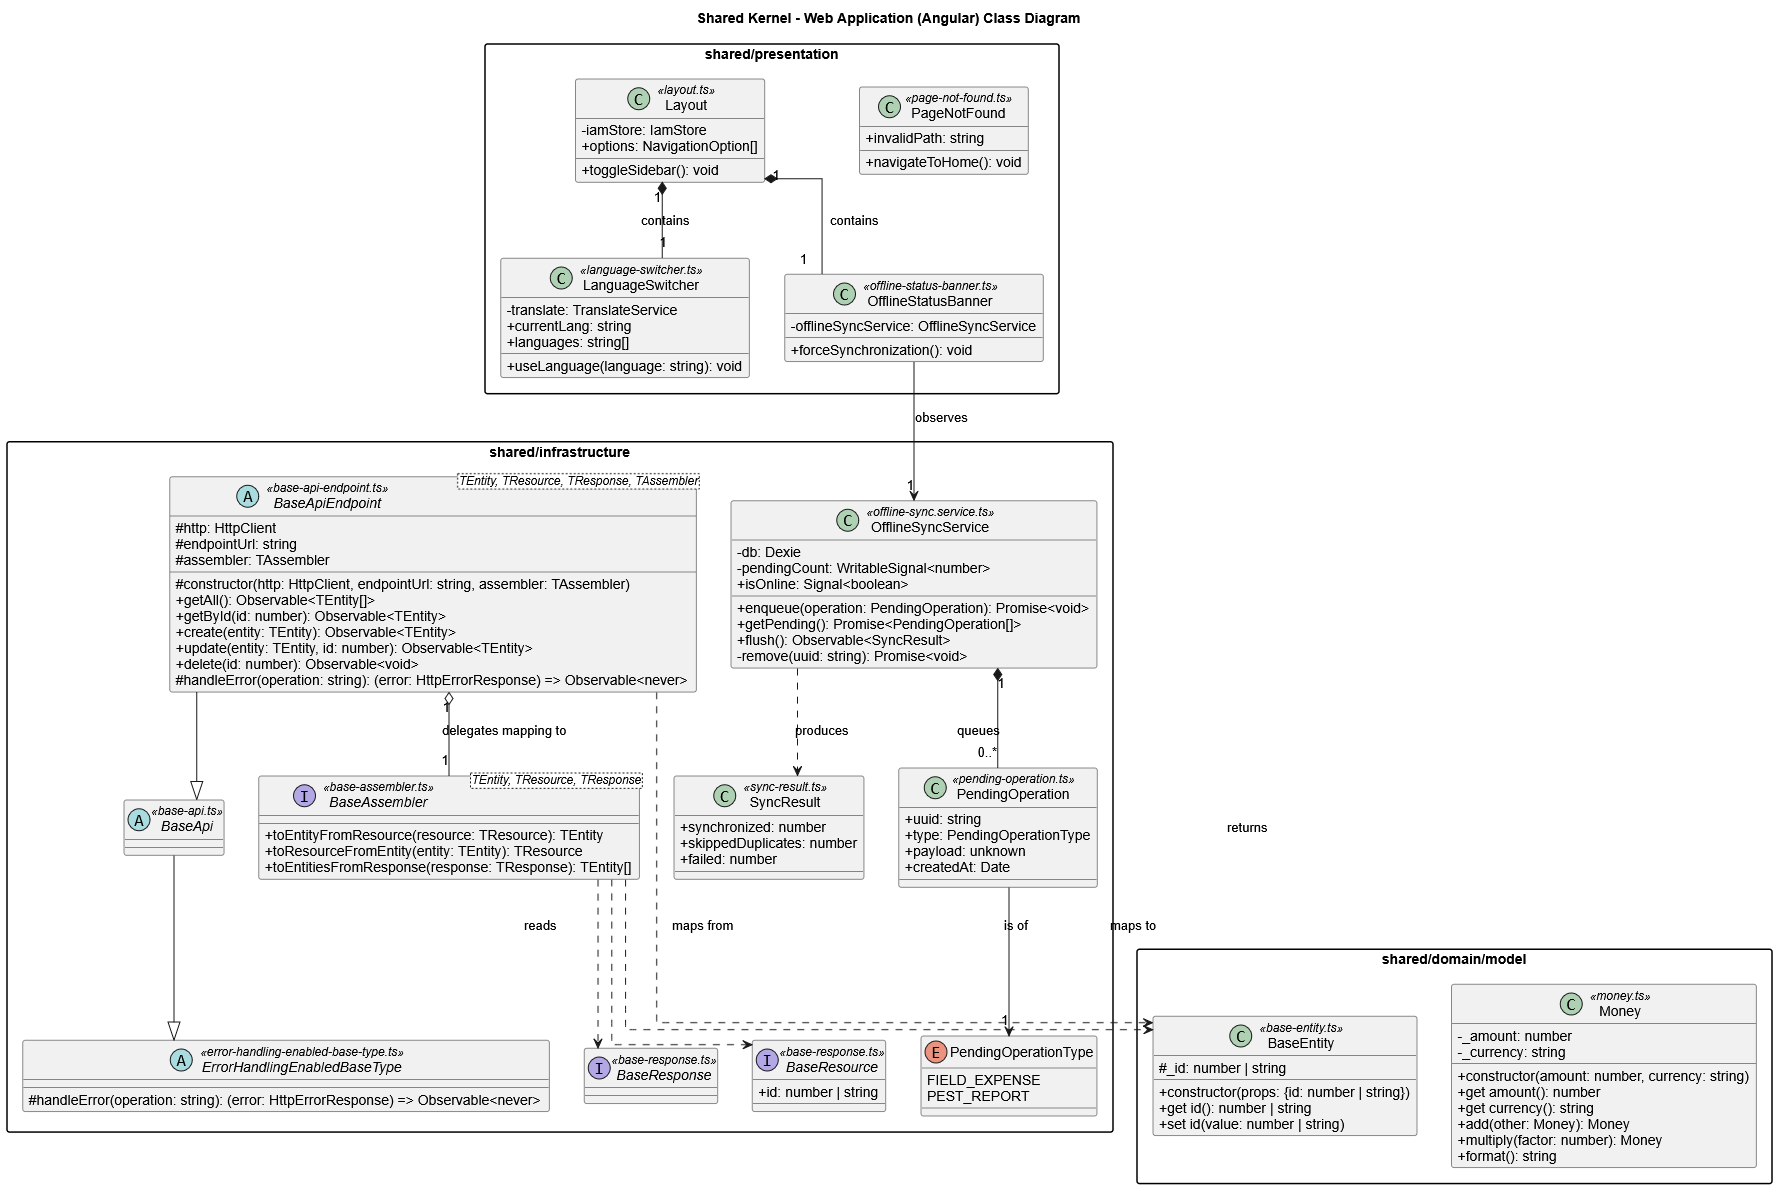
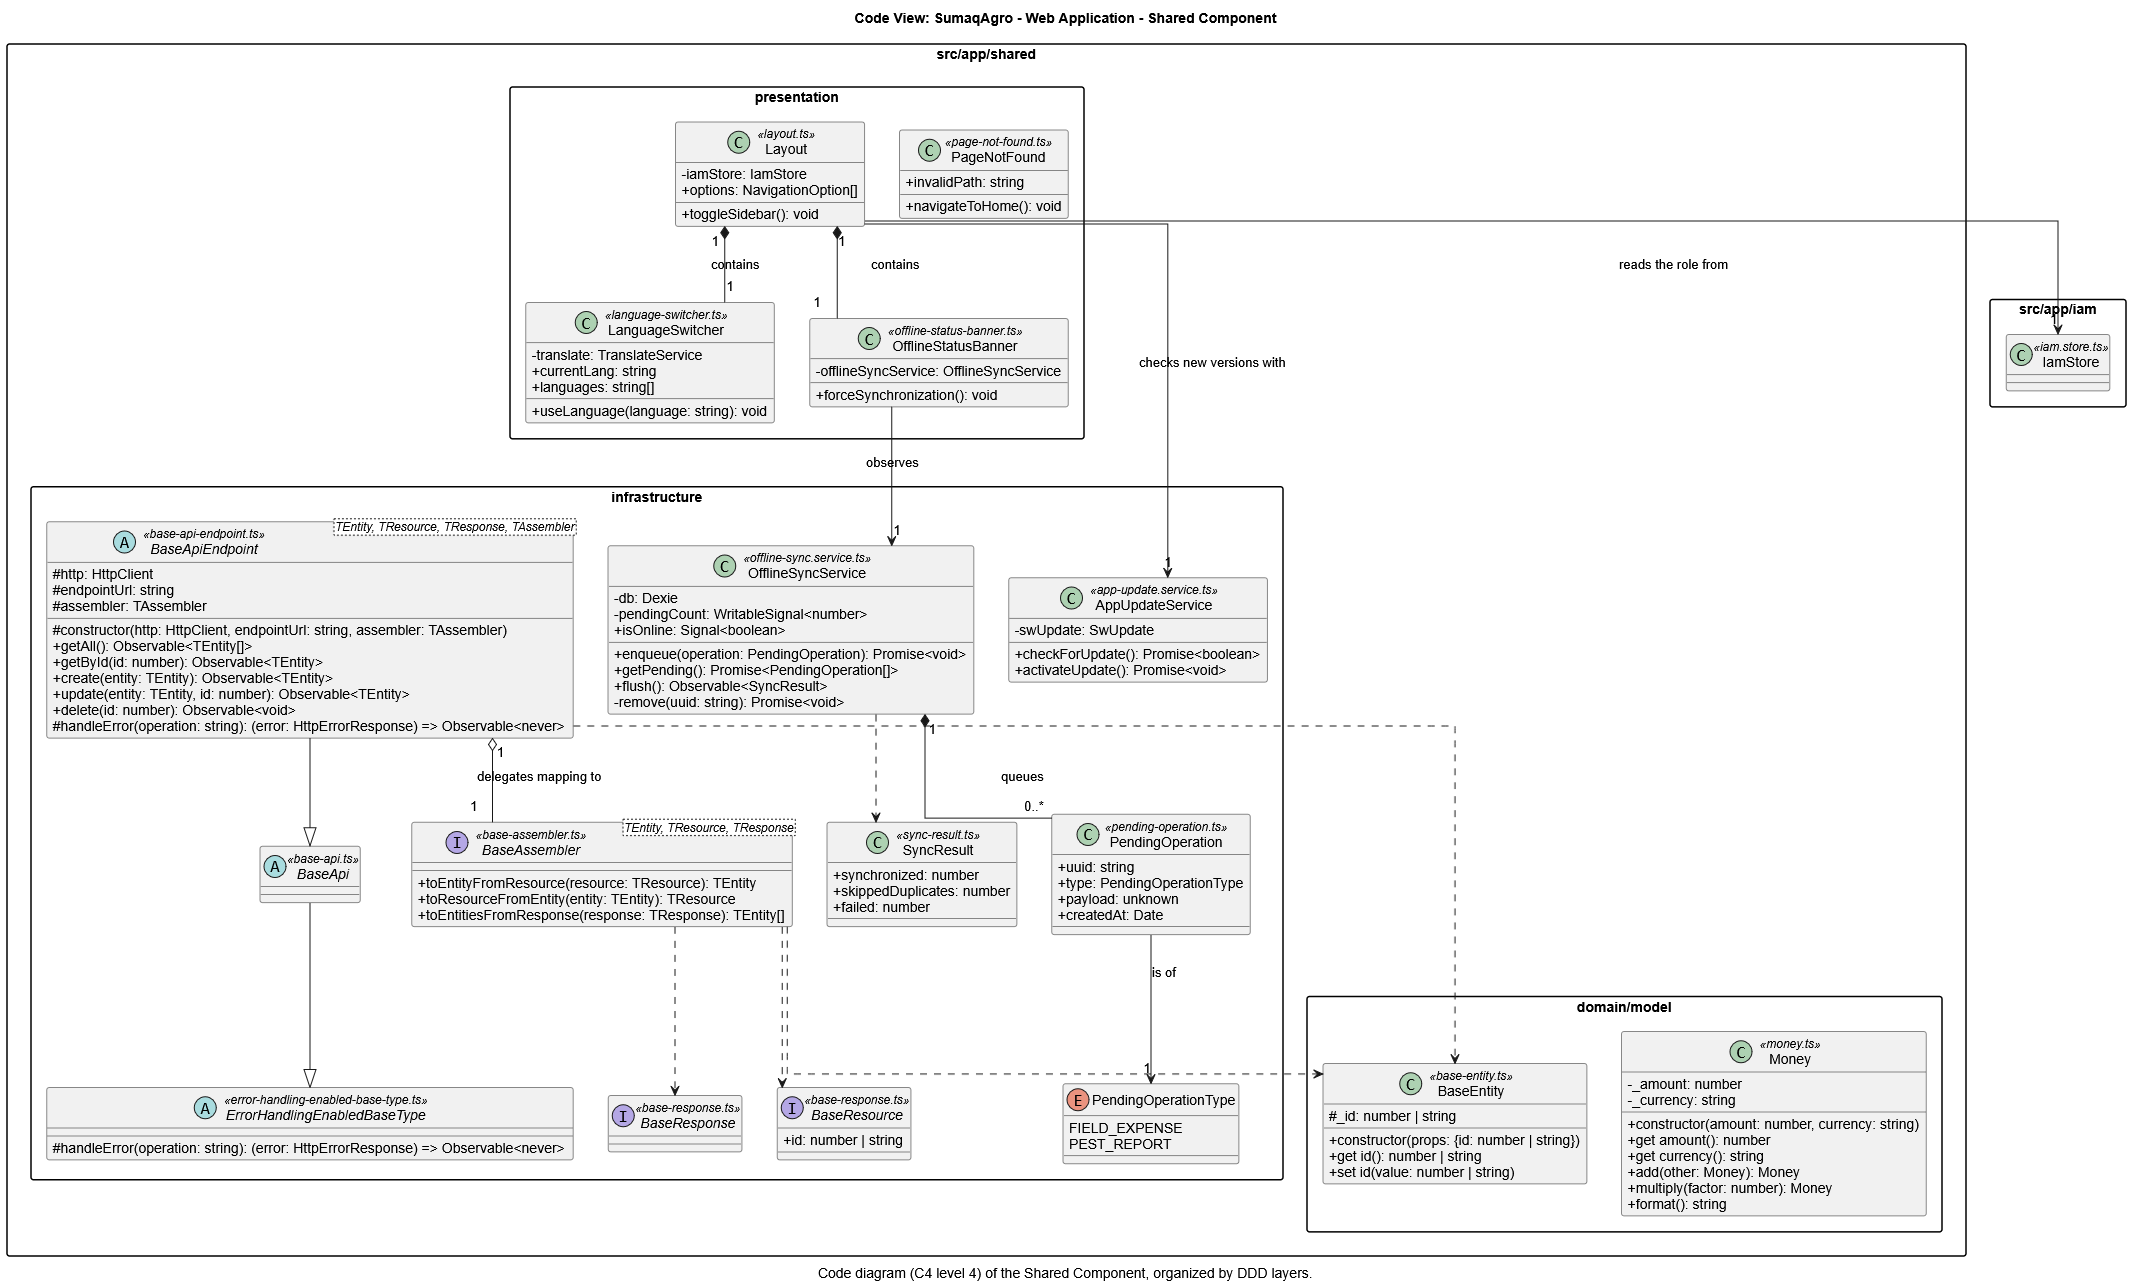
docs(cap4): update class diagrams as c4 code level and align descriptions

diff --git a/report/40-chapter-4-design.md b/report/40-chapter-4-design.md
@@ -1695,13 +1695,15 @@ El backend, desarrollado en **Java 21 con Spring Boot 3.x**, también se organiz
 
 En esta sección se presenta el diseño orientado a objetos de SumaqAgro a nivel de clases. Los diagramas toman como base los 6 bounded contexts y el Shared Kernel definidos en el Design-Level EventStorming, y los llevan al código de los dos productos de software que los implementan: la **Web Application** en Angular y la **RESTful API** en Spring Boot.
 
+Estos diagramas corresponden al nivel de código (nivel 4) del modelo C4. Cada uno amplía un componente del diagrama de componentes de la sección 4.6.4: hay un diagrama por bounded context, más el de Shared, para cada contenedor.
+
 Las principales características que se consideran en los diagramas son:
 
-* **Organización por bounded context:** cada contexto tiene su propio diagrama y sus clases se agrupan en paquetes que siguen la estructura de carpetas del proyecto.
+* **Organización por bounded context:** cada contexto tiene su propio diagrama y sus clases se agrupan en paquetes que siguen la estructura de carpetas del proyecto. El componente aparece dentro de un marco con su paquete (por ejemplo, `com.sumaqagro.platform.fieldmanagement` en la API y `src/app/field-management` en la Web Application). Las clases que vienen de otro componente, como Shared o IAM, se dibujan fuera de ese marco.
 * **Capas de DDD:** en la RESTful API se separan las capas `domain` (agregados, entidades, value objects, commands y events), `application` (servicios de commands y queries, event handlers y servicios de ACL), `infrastructure` (repositorios JPA y assemblers hacia sistemas externos) e `interfaces` (controllers REST, assemblers de recursos y facades de ACL). En la Web Application se separan `domain/model`, `application` (store), `infrastructure` (API, endpoints, assemblers, requests y responses) y `presentation` (vistas y componentes).
 * **Principios SOLID:** cada servicio se define como interfaz y se implementa en una clase aparte, los controllers dependen de interfaces y no de implementaciones, y cada clase tiene una sola responsabilidad (por ejemplo, un assembler solo transforma datos).
 * **Comunicación entre contextos:** los contextos no se llaman directamente. Lo hacen mediante domain events, que activan las políticas P1 a P11 del EventStorming, o mediante facades de ACL.
-* **Notación:** los miembros indican su alcance (`-` privado, `+` público y `#` protegido), su tipo de dato y el tipo de retorno de los métodos. Las relaciones muestran su nombre, su dirección y su multiplicidad.
+* **Notación:** los miembros indican su alcance (`-` privado, `+` público y `#` protegido), su tipo de dato y el tipo de retorno de los métodos. Las asociaciones entre clases del dominio muestran su nombre, su dirección y su multiplicidad. Las dependencias (`..>`), herencias e implementaciones muestran su dirección.
 
 **Herramienta utilizada:** PlantUML (*Diagrams as Code*).
 
@@ -1709,7 +1711,7 @@ Las principales características que se consideran en los diagramas son:
 
 ### 4.7.1. Class Diagrams
 
-A continuación se presentan los diagramas de clases de cada bounded context, primero para la Web Application y luego para la RESTful API. En la Web Application los nombres de archivo siguen la convención *kebab-case* de Angular (por ejemplo, `field-plot.entity.ts` o `field-management.store.ts`), y se muestran junto a cada clase.
+A continuación se presentan los diagramas de clases de cada bounded context, primero para la Web Application y luego para la RESTful API. En la Web Application los nombres de archivo siguen la convención *kebab-case* de Angular (por ejemplo, `field-plot.entity.ts` o `field-management.store.ts`), y se muestran junto a cada clase. Cada contexto de la Web Application, salvo IAM, tiene su archivo de rutas (`*.routes.ts`), que usa `IamGuard` para revisar la sesión y el rol antes de abrir sus vistas.
 
 ---
 
@@ -1728,12 +1730,14 @@ El Shared Kernel reúne las clases comunes que reutilizan todos los bounded cont
   * `BaseApiEndpoint<TEntity, TResource, TResponse, TAssembler>`: clase abstracta con las operaciones HTTP comunes (`getAll`, `getById`, `create`, `update` y `delete`). Hereda de `BaseApi`, que a su vez hereda de `ErrorHandlingEnabledBaseType` para manejar los errores HTTP en un solo lugar.
   * `BaseAssembler`, `BaseResource` y `BaseResponse`: interfaces que definen cómo se convierten los recursos de la API en entidades y viceversa.
   * `OfflineSyncService`: guarda en IndexedDB (Dexie) las operaciones hechas sin conexión, como gastos y reportes de plagas, y las envía al backend cuando vuelve la señal. Cada operación pendiente es un `PendingOperation`.
+  * `AppUpdateService`: usa el Service Worker (`SwUpdate`) para revisar si hay una versión nueva de la aplicación y activarla.
 * **`shared/presentation`:** `Layout` (estructura general con el menú), `LanguageSwitcher` (cambio entre español e inglés), `OfflineStatusBanner` (aviso de modo sin conexión) y `PageNotFound`.
 
 **Relaciones principales:**
 * `BaseApiEndpoint` "1" o-- "1" `BaseAssembler`: cada endpoint delega la transformación de datos en su assembler.
 * `OfflineSyncService` "1" *-- "0..*" `PendingOperation`: el servicio es dueño de la cola de operaciones pendientes.
 * `Layout` "1" *-- "1" `LanguageSwitcher` y `OfflineStatusBanner`: el layout contiene ambos componentes.
+* `Layout` --> "1" `IamStore`: el layout lee el rol del usuario desde IAM para mostrar el menú que le corresponde.
 
 ##### RESTful API (Spring Boot)
 
@@ -1774,13 +1778,14 @@ Este contexto registra a los usuarios, los autentica con JWT, maneja sus roles y
 ![Diagrama de Clases - IAM - RESTful API](assets/img/chapter-4/class-diagrams/restful-api/01-iam-api-class-diagram.png)
 
 * **Dominio:** `User` es el agregado y hereda de `AuditableAbstractAggregateRoot`. Tiene un `EmailAddress`, su contraseña cifrada y un conjunto de `Role`. `Roles` define `ROLE_FARMER`, `ROLE_COOPERATIVE_MANAGER` y `ROLE_AGRONOMIST`. `PasswordResetToken` guarda el código temporal para cambiar la contraseña. Los events son `UserSignedUpEvent` y `UserSignedInEvent`.
-* **Servicios:** las interfaces `UserCommandService`, `UserQueryService` y `RoleCommandService` se implementan en `UserCommandServiceImpl`, `UserQueryServiceImpl` y `RoleCommandServiceImpl`. `HashingService` (BCrypt) y `TokenService` (JWT) son interfaces con su implementación en infraestructura.
+* **Servicios:** las interfaces `UserCommandService`, `UserQueryService` y `RoleCommandService` se implementan en `UserCommandServiceImpl`, `UserQueryServiceImpl` y `RoleCommandServiceImpl`. `HashingService` (BCrypt) y `TokenService` (JWT) son interfaces con su implementación en infraestructura. El correo de recuperación de contraseña se envía con `NotificationSender` del Shared Kernel (Brevo).
 * **Infraestructura:** repositorios `UserRepository`, `RoleRepository` y `PasswordResetTokenRepository`. `WebSecurityConfiguration` y `BearerAuthorizationRequestFilter` validan el token en cada petición.
 * **Interfaces:** `AuthenticationController` (registro, inicio de sesión y recuperación de contraseña) y `UsersController`. `IamContextFacade` permite que otros contextos, como Profiles, asignen roles sin conocer el modelo interno de IAM.
 
 **Relaciones principales:**
 * `User` "0..*" --> "1..*" `Role`: un usuario tiene al menos un rol.
 * `User` "1" --> "0..*" `PasswordResetToken`: un usuario puede pedir varios códigos de recuperación.
+* `UserCommandServiceImpl` "1" --> "1" `NotificationSender`: IAM depende solo de la interfaz para enviar el correo, sin conocer a Brevo.
 * `UserCommandServiceImpl` ..> `UserSignedUpEvent`: al registrarse un usuario se publica el evento que Subscriptions and Payments escucha para asignarle el plan Semilla (política P1).
 
 ---
@@ -1818,6 +1823,7 @@ Este contexto guarda los datos de contacto de cada usuario, registra las coopera
 * `Cooperative` "1" *-- "0..*" `CooperativeMember` y "1" *-- "0..*" `AgronomistInvitation`: ambas entidades solo existen dentro de la cooperativa.
 * `Profile` *-- "1" `PersonName` y `PhoneNumber`: el nombre y el teléfono forman parte del perfil.
 * `Cooperative` "1" --> "0..*" `AgronomistAssignment`: una cooperativa puede tener varias asignaciones activas.
+* `CooperativeCommandServiceImpl` "1" --> "1" `NotificationSender`: la invitación al agrónomo sale por correo mediante la interfaz del Shared Kernel (Brevo).
 
 ---
 
@@ -1864,7 +1870,7 @@ Este contexto registra las parcelas con su polígono GPS, gestiona las campañas
 * **Dominio:** `FieldPlot`, `CropCampaign`, `CampaignLedger` y `ExpenseEntry` heredan de `BaseEntity`; `GeoCoordinate` y `SoilBaseline` describen el polígono y el análisis de suelo. Los commands siguen los pasos del EventStorming: registrar la parcela, delimitar el polígono, iniciar la campaña, elegir el cultivo y la variedad, registrar la siembra, registrar gastos de insumos, jornales y flete, fijar el rendimiento esperado y exportar el reporte de costos.
 * **Aplicación:** `FieldManagementStore` guarda las parcelas, las campañas y el libro de costos. Cuando no hay conexión, envía los gastos a `OfflineSyncService` para sincronizarlos después.
 * **Infraestructura:** `FieldManagementApi` agrupa los endpoints `FieldPlotsApiEndpoint`, `CropCampaignsApiEndpoint` y `CampaignLedgersApiEndpoint`, cada uno con su assembler.
-* **Presentación:** `MyPlotDashboardView`, `RegisteredPlotsView`, `PlotRegistrationForm`, `PlotBoundaryMapView`, `CampaignFinancesView` y `FieldExpenseForm`.
+* **Presentación:** `MyPlotDashboardView`, `RegisteredPlotsView`, `PlotRegistrationForm`, `PlotBoundaryMapView`, `CampaignFinancesView` y `FieldExpenseForm`. `PlotBoundaryMapView` usa un mapa de Leaflet.js para marcar los vértices de la parcela.
 
 **Relaciones principales:**
 * `FieldPlot` "1" *-- "3..*" `GeoCoordinate`: un polígono necesita como mínimo tres vértices.
@@ -1896,9 +1902,9 @@ Este contexto monitorea la salud del cultivo con imágenes satelitales y el clim
 ![Diagrama de Clases - Crop Health - Web Application](assets/img/chapter-4/class-diagrams/web-application/05-crop-health-web-class-diagram.png)
 
 * **Dominio:** las entidades `SatelliteObservation`, `ClimateForecast`, `AgroclimaticAlert`, `ActionStep`, `RegionalBulletin`, `PestReport`, `FieldInspection` y `TechnicalPrescription` heredan de `BaseEntity`. Los commands son los que ejecuta el usuario: subir la foto de una plaga, registrar la evaluación del daño, programar y completar una inspección, emitir la receta, confirmar el tratamiento, reportar la recuperación del follaje, evaluar la efectividad, completar un paso del plan de acción, cerrar la alerta y emitir un boletín regional.
-* **Aplicación:** `CropHealthStore` guarda las observaciones, el pronóstico, las alertas, los reportes de plagas y las recetas de la parcela seleccionada.
+* **Aplicación:** `CropHealthStore` guarda las observaciones, el pronóstico, las alertas, los reportes de plagas y las recetas de la parcela seleccionada. Cuando no hay conexión, envía los reportes de plagas a `OfflineSyncService`; cada reporte lleva un `clientSyncId` para no duplicarse al sincronizar.
 * **Infraestructura:** `CropHealthApi` agrupa un endpoint por cada entidad, cada uno con su assembler.
-* **Presentación:** `CropHealthView` (mapa NDVI/NDWI), `AgriculturalAlertsView`, `AlertDetailView`, `AdvisorConsultationView`, `PestReportForm`, `DiagnosisInboxView`, `PrescriptionForm` y `RegionalBulletinForm`.
+* **Presentación:** `CropHealthView` (mapa NDVI/NDWI con Leaflet.js), `AgriculturalAlertsView`, `AlertDetailView`, `AdvisorConsultationView`, `PestReportForm`, `DiagnosisInboxView`, `PrescriptionForm` y `RegionalBulletinForm`.
 
 **Relaciones principales:**
 * `AgroclimaticAlert` "1" *-- "1..*" `ActionStep`: cada alerta tiene al menos un paso en su plan de acción.
@@ -1908,7 +1914,7 @@ Este contexto monitorea la salud del cultivo con imágenes satelitales y el clim
 
 ![Diagrama de Clases - Crop Health - RESTful API](assets/img/chapter-4/class-diagrams/restful-api/05-crop-health-api-class-diagram.png)
 
-* **Dominio:** los agregados son `SatelliteObservation`, `ClimateForecast`, `AgroclimaticAlert`, `RegionalBulletin`, `PestReport`, `FieldInspection` y `TechnicalPrescription`. `SatelliteObservation` descarta las imágenes nubladas y detecta anomalías y estrés hídrico; `ClimateForecast` detecta el riesgo de helada. Los value objects son `VegetationIndexes` (NDVI y NDWI), `TemperatureRange`, `PhotoEvidence` y `Dosage`.
+* **Dominio:** los agregados son `SatelliteObservation`, `ClimateForecast`, `AgroclimaticAlert`, `RegionalBulletin`, `PestReport`, `FieldInspection` y `TechnicalPrescription`. `SatelliteObservation` descarta las imágenes nubladas y detecta anomalías y estrés hídrico; `ClimateForecast` detecta el riesgo de helada. Los value objects son `VegetationIndexes` (NDVI y NDWI), `TemperatureRange`, `PhotoEvidence` y `Dosage`. `PestReport` guarda el `clientSyncId` del reporte hecho sin conexión, para no registrarlo dos veces.
 * **Servicios:** `SatelliteMonitoringCommandService`, `AgroclimaticAlertCommandService`, `AgronomicAdvisoryCommandService` y `CropHealthQueryService`. Los event handlers aplican cuatro políticas: `SowingDateRecordedEventHandler` (P4) programa el monitoreo, `CropRiskDetectedEventHandler` (P5) levanta la alerta ante anomalía, estrés hídrico o helada, `AgroclimaticAlertRaisedEventHandler` (P6) notifica al productor y al agrónomo, y `PestEvidencePhotoUploadedEventHandler` (P7) avisa al agrónomo asignado. `SatelliteMonitoringScheduler` descarga las imágenes cada cinco días y el pronóstico cada día.
 * **Infraestructura:** un repositorio por agregado, `AgroMonitoringClientAssembler`, que trae las imágenes, los índices y el clima, y `PhotoStorageService` para las fotos de plagas.
 * **Interfaces:** `MonitoringController`, `AlertsController` y `AdvisoryController`. Las notificaciones salen por `NotificationSender` (Twilio).
